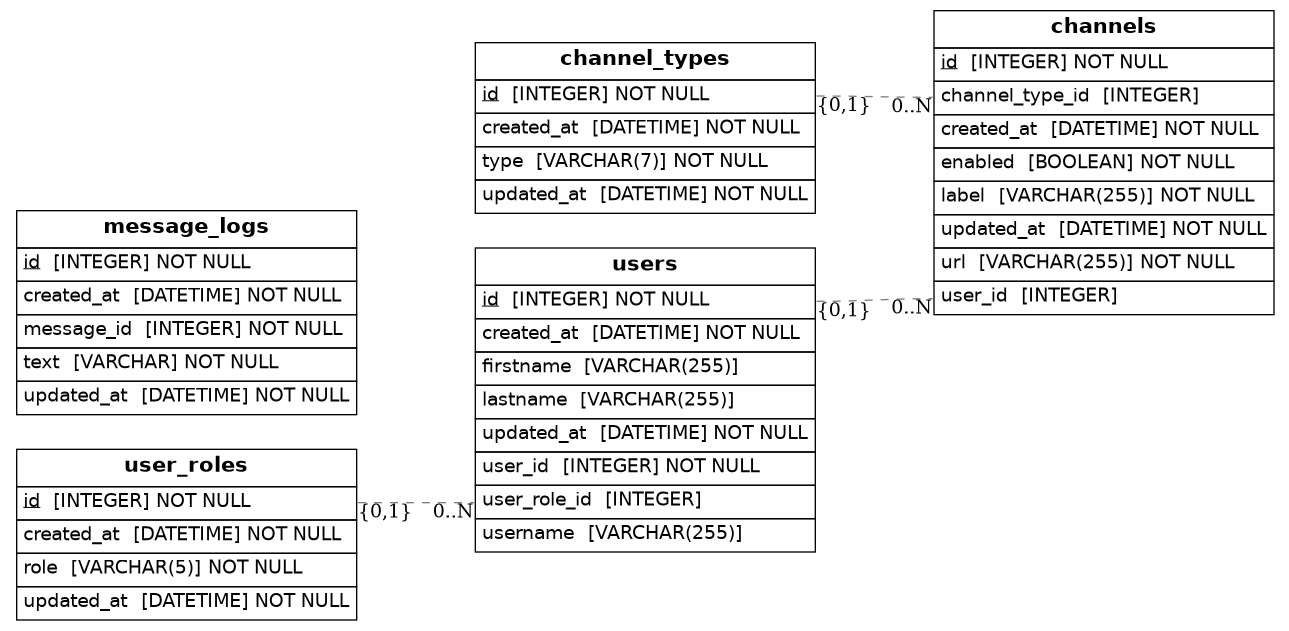
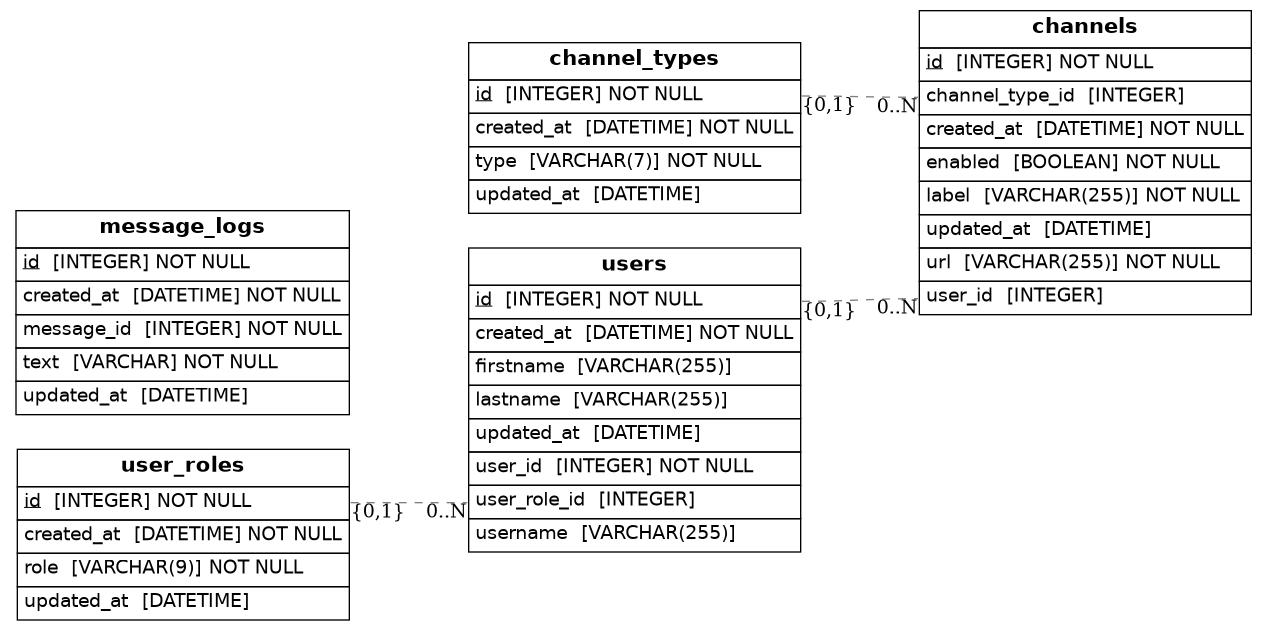
fix

diff --git a/src/db/migrations/versions/f8d942bda1f5_init.py b/src/db/migrations/versions/f8d942bda1f5_init.py
@@ -6,7 +6,7 @@ import sqlmodel
 from alembic import op
 
 # revision identifiers, used by Alembic.
-revision: str = "5dfdc86e890a"
+revision: str = "f8d942bda1f5"
 down_revision: Union[str, None] = None
 branch_labels: Union[str, Sequence[str], None] = None
 depends_on: Union[str, Sequence[str], None] = None
@@ -74,11 +74,40 @@ def upgrade() -> None:
     op.create_index(op.f("ix_users_lastname"), "users", ["lastname"], unique=False)
     op.create_index(op.f("ix_users_user_id"), "users", ["user_id"], unique=False)
     op.create_index(op.f("ix_users_username"), "users", ["username"], unique=False)
+    op.create_table(
+        "channels",
+        sa.Column("id", sa.Integer(), nullable=False),
+        sa.Column("created_at", sa.DateTime(), nullable=False),
+        sa.Column("updated_at", sa.DateTime(), nullable=True),
+        sa.Column("url", sqlmodel.sql.sqltypes.AutoString(length=255), nullable=False),
+        sa.Column(
+            "label", sqlmodel.sql.sqltypes.AutoString(length=255), nullable=False
+        ),
+        sa.Column("enabled", sa.Boolean(), nullable=False),
+        sa.Column("user_id", sa.Integer(), nullable=True),
+        sa.Column("channel_type_id", sa.Integer(), nullable=True),
+        sa.ForeignKeyConstraint(
+            ["channel_type_id"],
+            ["channel_types.id"],
+        ),
+        sa.ForeignKeyConstraint(
+            ["user_id"],
+            ["users.id"],
+        ),
+        sa.PrimaryKeyConstraint("id"),
+    )
+    op.create_index(op.f("ix_channels_enabled"), "channels", ["enabled"], unique=False)
+    op.create_index(op.f("ix_channels_label"), "channels", ["label"], unique=False)
+    op.create_index(op.f("ix_channels_url"), "channels", ["url"], unique=False)
     # ### end Alembic commands ###
 
 
 def downgrade() -> None:
     # ### commands auto generated by Alembic - please adjust! ###
+    op.drop_index(op.f("ix_channels_url"), table_name="channels")
+    op.drop_index(op.f("ix_channels_label"), table_name="channels")
+    op.drop_index(op.f("ix_channels_enabled"), table_name="channels")
+    op.drop_table("channels")
     op.drop_index(op.f("ix_users_username"), table_name="users")
     op.drop_index(op.f("ix_users_user_id"), table_name="users")
     op.drop_index(op.f("ix_users_lastname"), table_name="users")

diff --git a/src/db/models/channel.py b/src/db/models/channel.py
@@ -14,7 +14,7 @@ if TYPE_CHECKING:
     from .user import UserModel
 
 
-class ChannelModel(SQLModel):
+class ChannelModel(SQLModel, table=True):
 
     __tablename__ = "channels"
 
